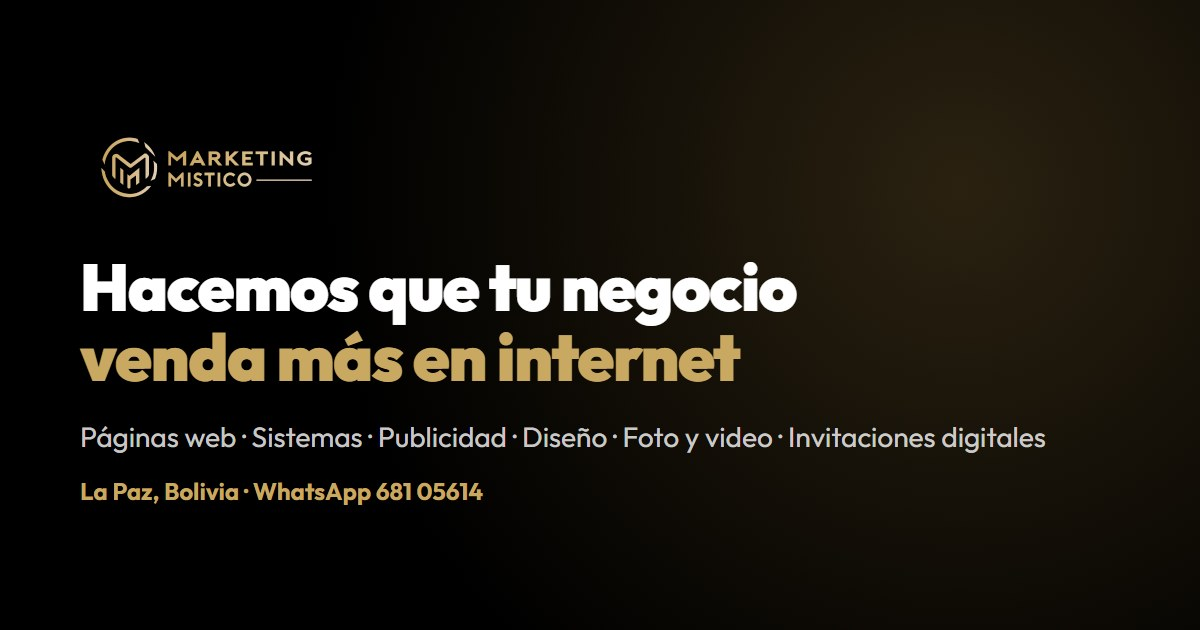
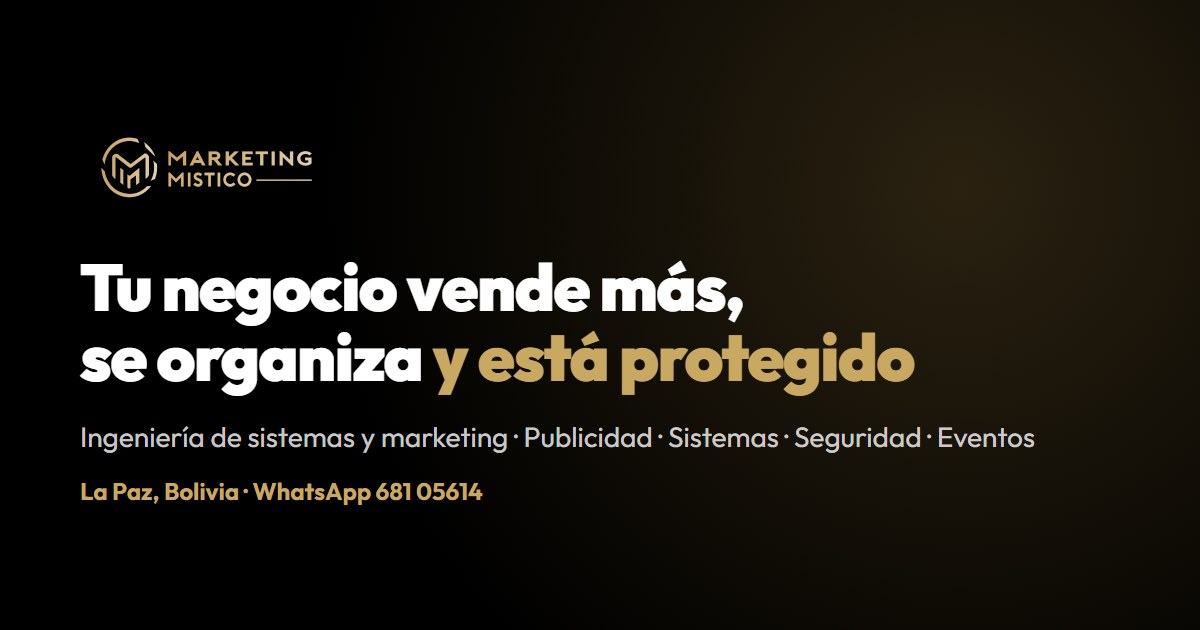
chore(seo): título, descripción e imagen para compartir con el nuevo posicionamiento

diff --git a/frontend/public/index.html b/frontend/public/index.html
@@ -4,7 +4,7 @@
         <meta charset="utf-8" />
         <meta name="viewport" content="width=device-width, initial-scale=1" />
         <meta name="theme-color" content="#000000" />
-        <meta name="description" content="Agencia digital en La Paz, Bolivia: páginas web, sistemas a medida, publicidad en Facebook y TikTok, diseño, foto y video e invitaciones digitales. Cotiza gratis por WhatsApp." />
+        <meta name="description" content="Ingeniería de sistemas y marketing en La Paz, Bolivia: publicidad, páginas web, sistemas a medida, chatbots, auditoría, mantenimiento e invitaciones digitales. Escríbenos por WhatsApp." />
         <meta name="keywords" content="marketing digital, agencia de marketing, pauta publicitaria, meta ads, facebook ads, desarrollo web, marketing bolivia, agencia premium, estrategia digital" />
         <meta name="author" content="Marketing Místico" />
         <meta name="robots" content="index, follow" />
@@ -16,8 +16,8 @@
         <!-- Open Graph / Facebook -->
         <meta property="og:type" content="website" />
         <meta property="og:url" content="https://marketingmistico.com/" />
-        <meta property="og:title" content="Marketing Místico | Páginas web, publicidad e invitaciones digitales en La Paz" />
-        <meta property="og:description" content="Agencia digital en La Paz, Bolivia: páginas web, sistemas a medida, publicidad en Facebook y TikTok, diseño, foto y video e invitaciones digitales. Cotiza gratis por WhatsApp." />
+        <meta property="og:title" content="Marketing Místico | Vende más, organiza y protege tu negocio · La Paz" />
+        <meta property="og:description" content="Ingeniería de sistemas y marketing en La Paz, Bolivia: publicidad, páginas web, sistemas a medida, chatbots, auditoría, mantenimiento e invitaciones digitales. Escríbenos por WhatsApp." />
         <meta property="og:image" content="https://marketingmistico.com/og-image.jpg" />
         <meta property="og:image:type" content="image/jpeg" />
         <meta property="og:image:width" content="1200" />
@@ -28,8 +28,8 @@
         <!-- Twitter Card -->
         <meta name="twitter:card" content="summary_large_image" />
         <meta name="twitter:url" content="https://marketingmistico.com/" />
-        <meta name="twitter:title" content="Marketing Místico | Páginas web, publicidad e invitaciones digitales en La Paz" />
-        <meta name="twitter:description" content="Agencia digital en La Paz, Bolivia: páginas web, sistemas a medida, publicidad en Facebook y TikTok, diseño, foto y video e invitaciones digitales. Cotiza gratis por WhatsApp." />
+        <meta name="twitter:title" content="Marketing Místico | Vende más, organiza y protege tu negocio · La Paz" />
+        <meta name="twitter:description" content="Ingeniería de sistemas y marketing en La Paz, Bolivia: publicidad, páginas web, sistemas a medida, chatbots, auditoría, mantenimiento e invitaciones digitales. Escríbenos por WhatsApp." />
         <meta name="twitter:image" content="https://marketingmistico.com/og-image.jpg" />
         <!--
         manifest.json provides metadata used when your web app is installed on a
@@ -51,7 +51,7 @@
         <link rel="preconnect" href="https://fonts.googleapis.com">
         <link rel="preconnect" href="https://fonts.gstatic.com" crossorigin>
         <link href="https://fonts.googleapis.com/css2?family=Outfit:wght@100..900&display=swap" rel="stylesheet">
-        <title>Marketing Místico | Páginas web, publicidad e invitaciones digitales en La Paz</title>
+        <title>Marketing Místico | Vende más, organiza y protege tu negocio · La Paz</title>
         <script>
             // Theme color setup
             document.documentElement.style.backgroundColor = "#000000";
